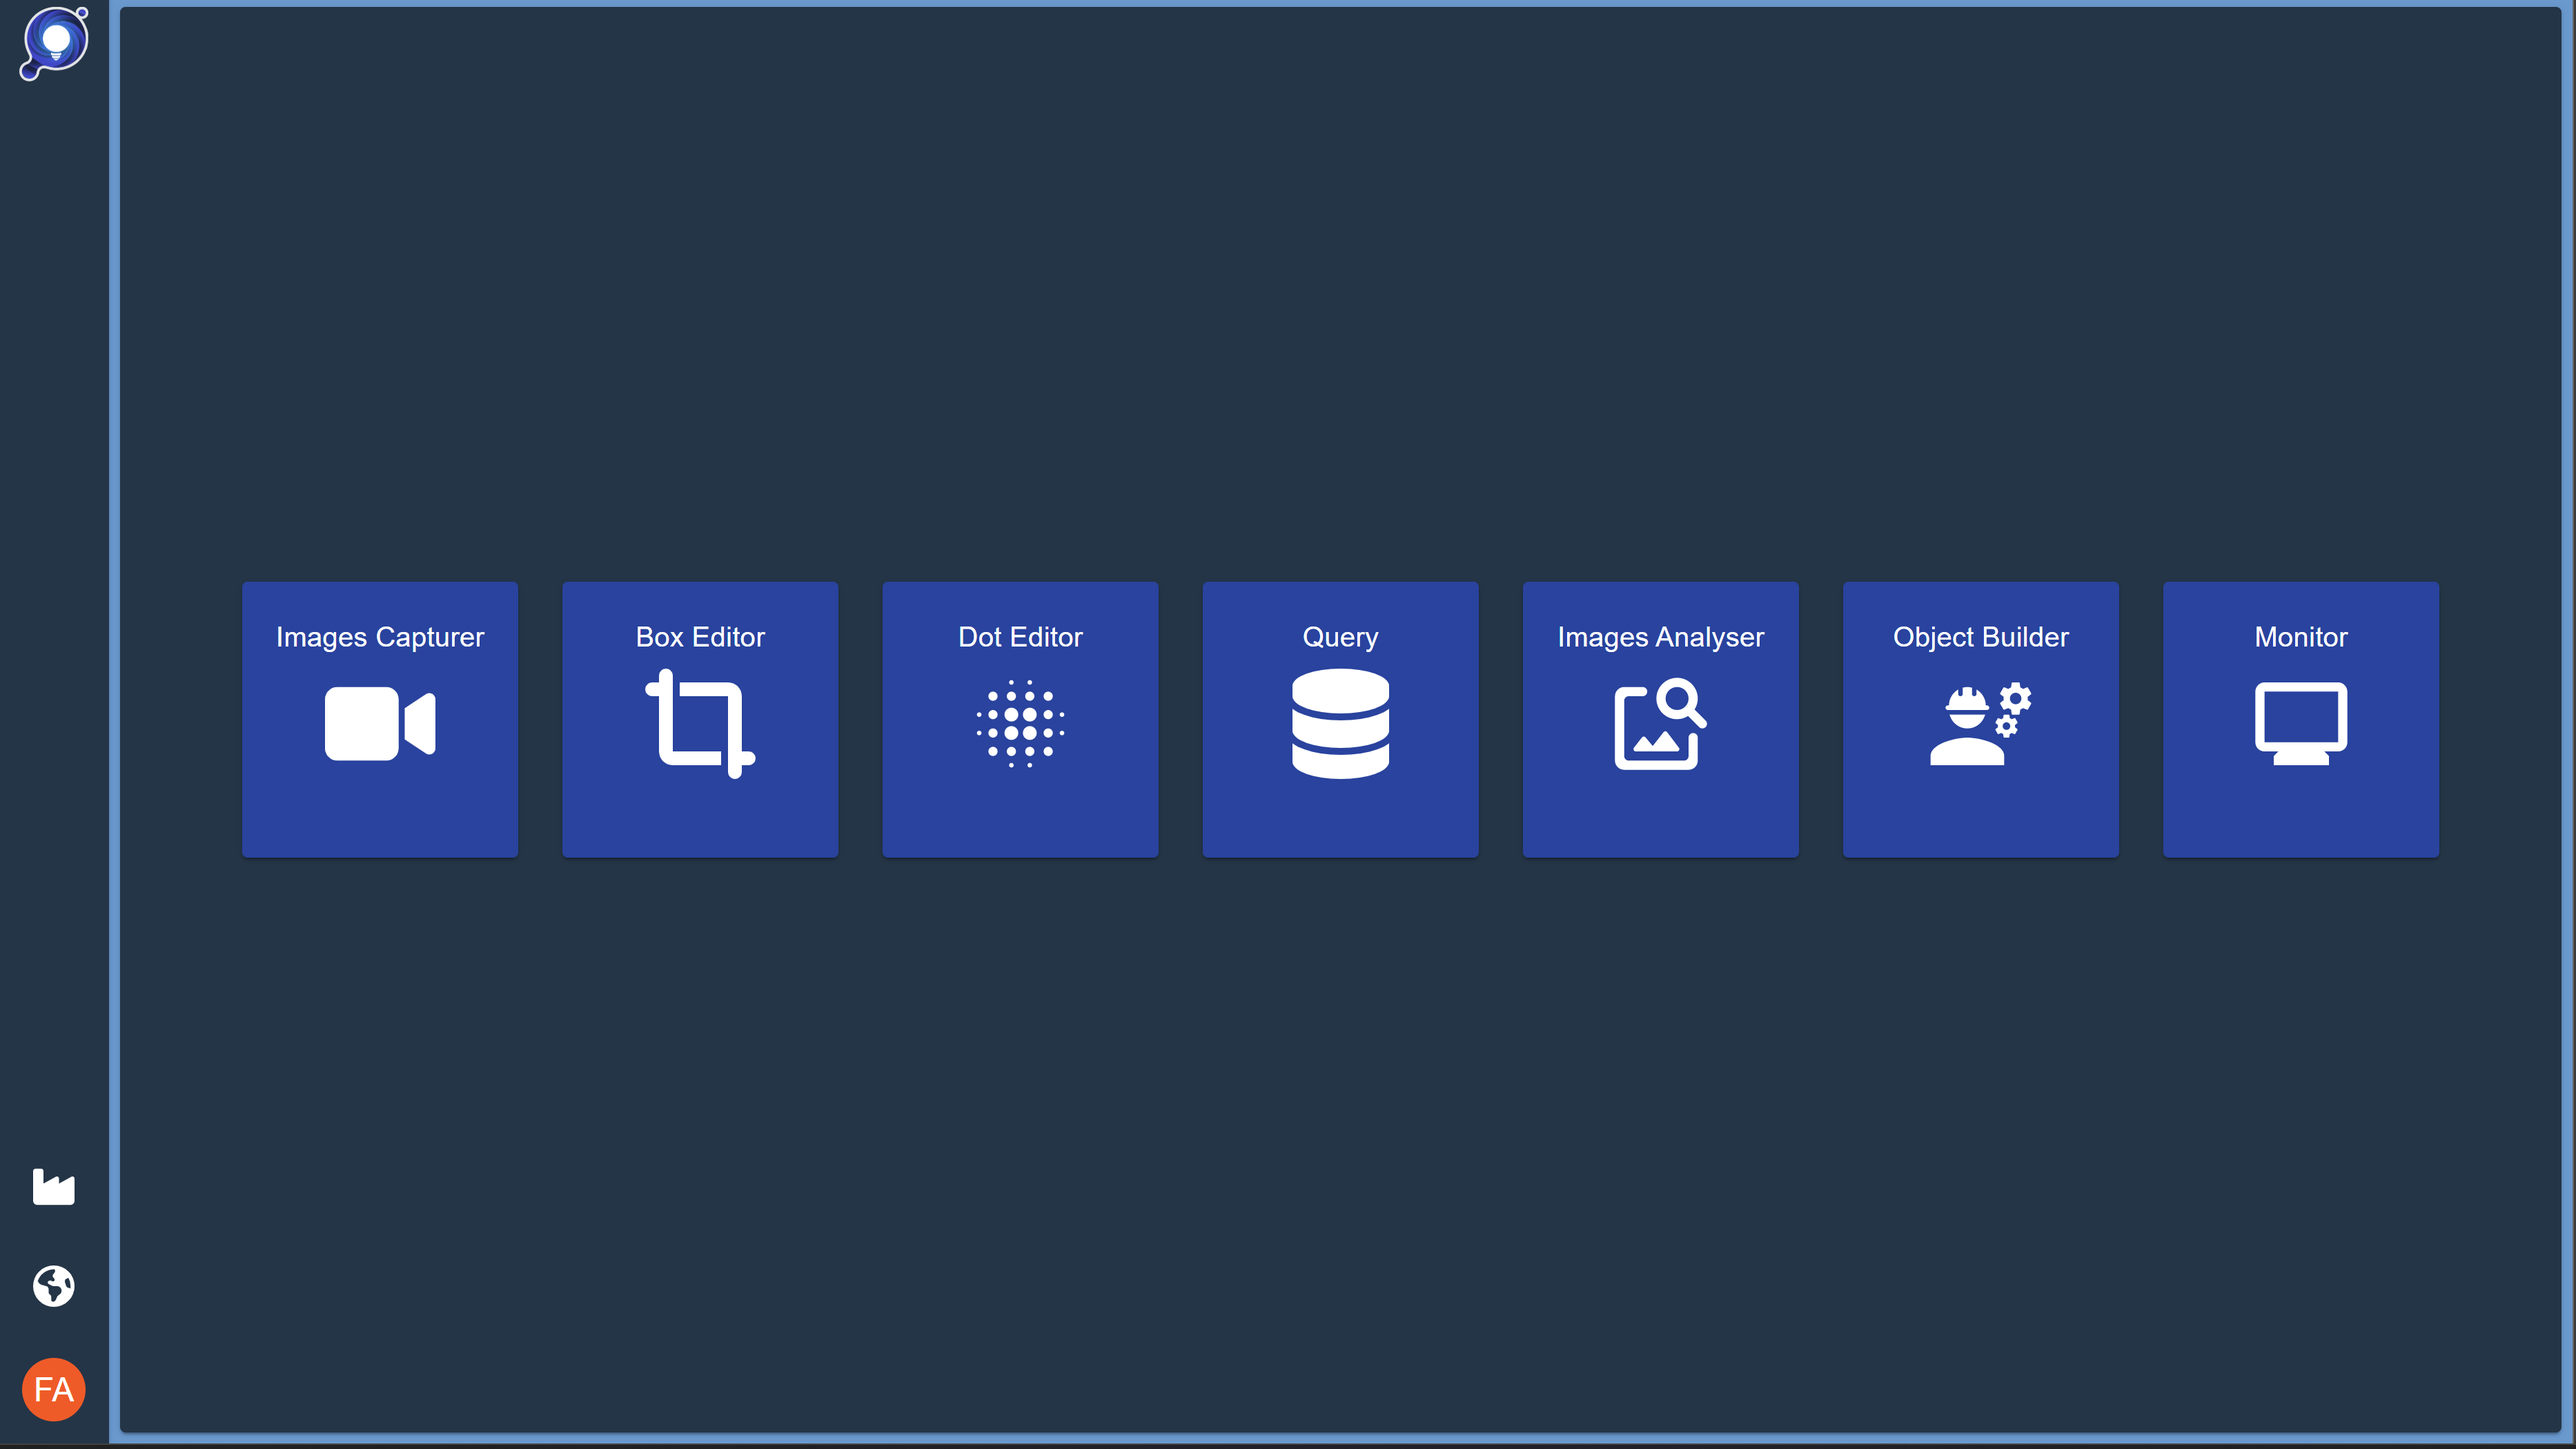
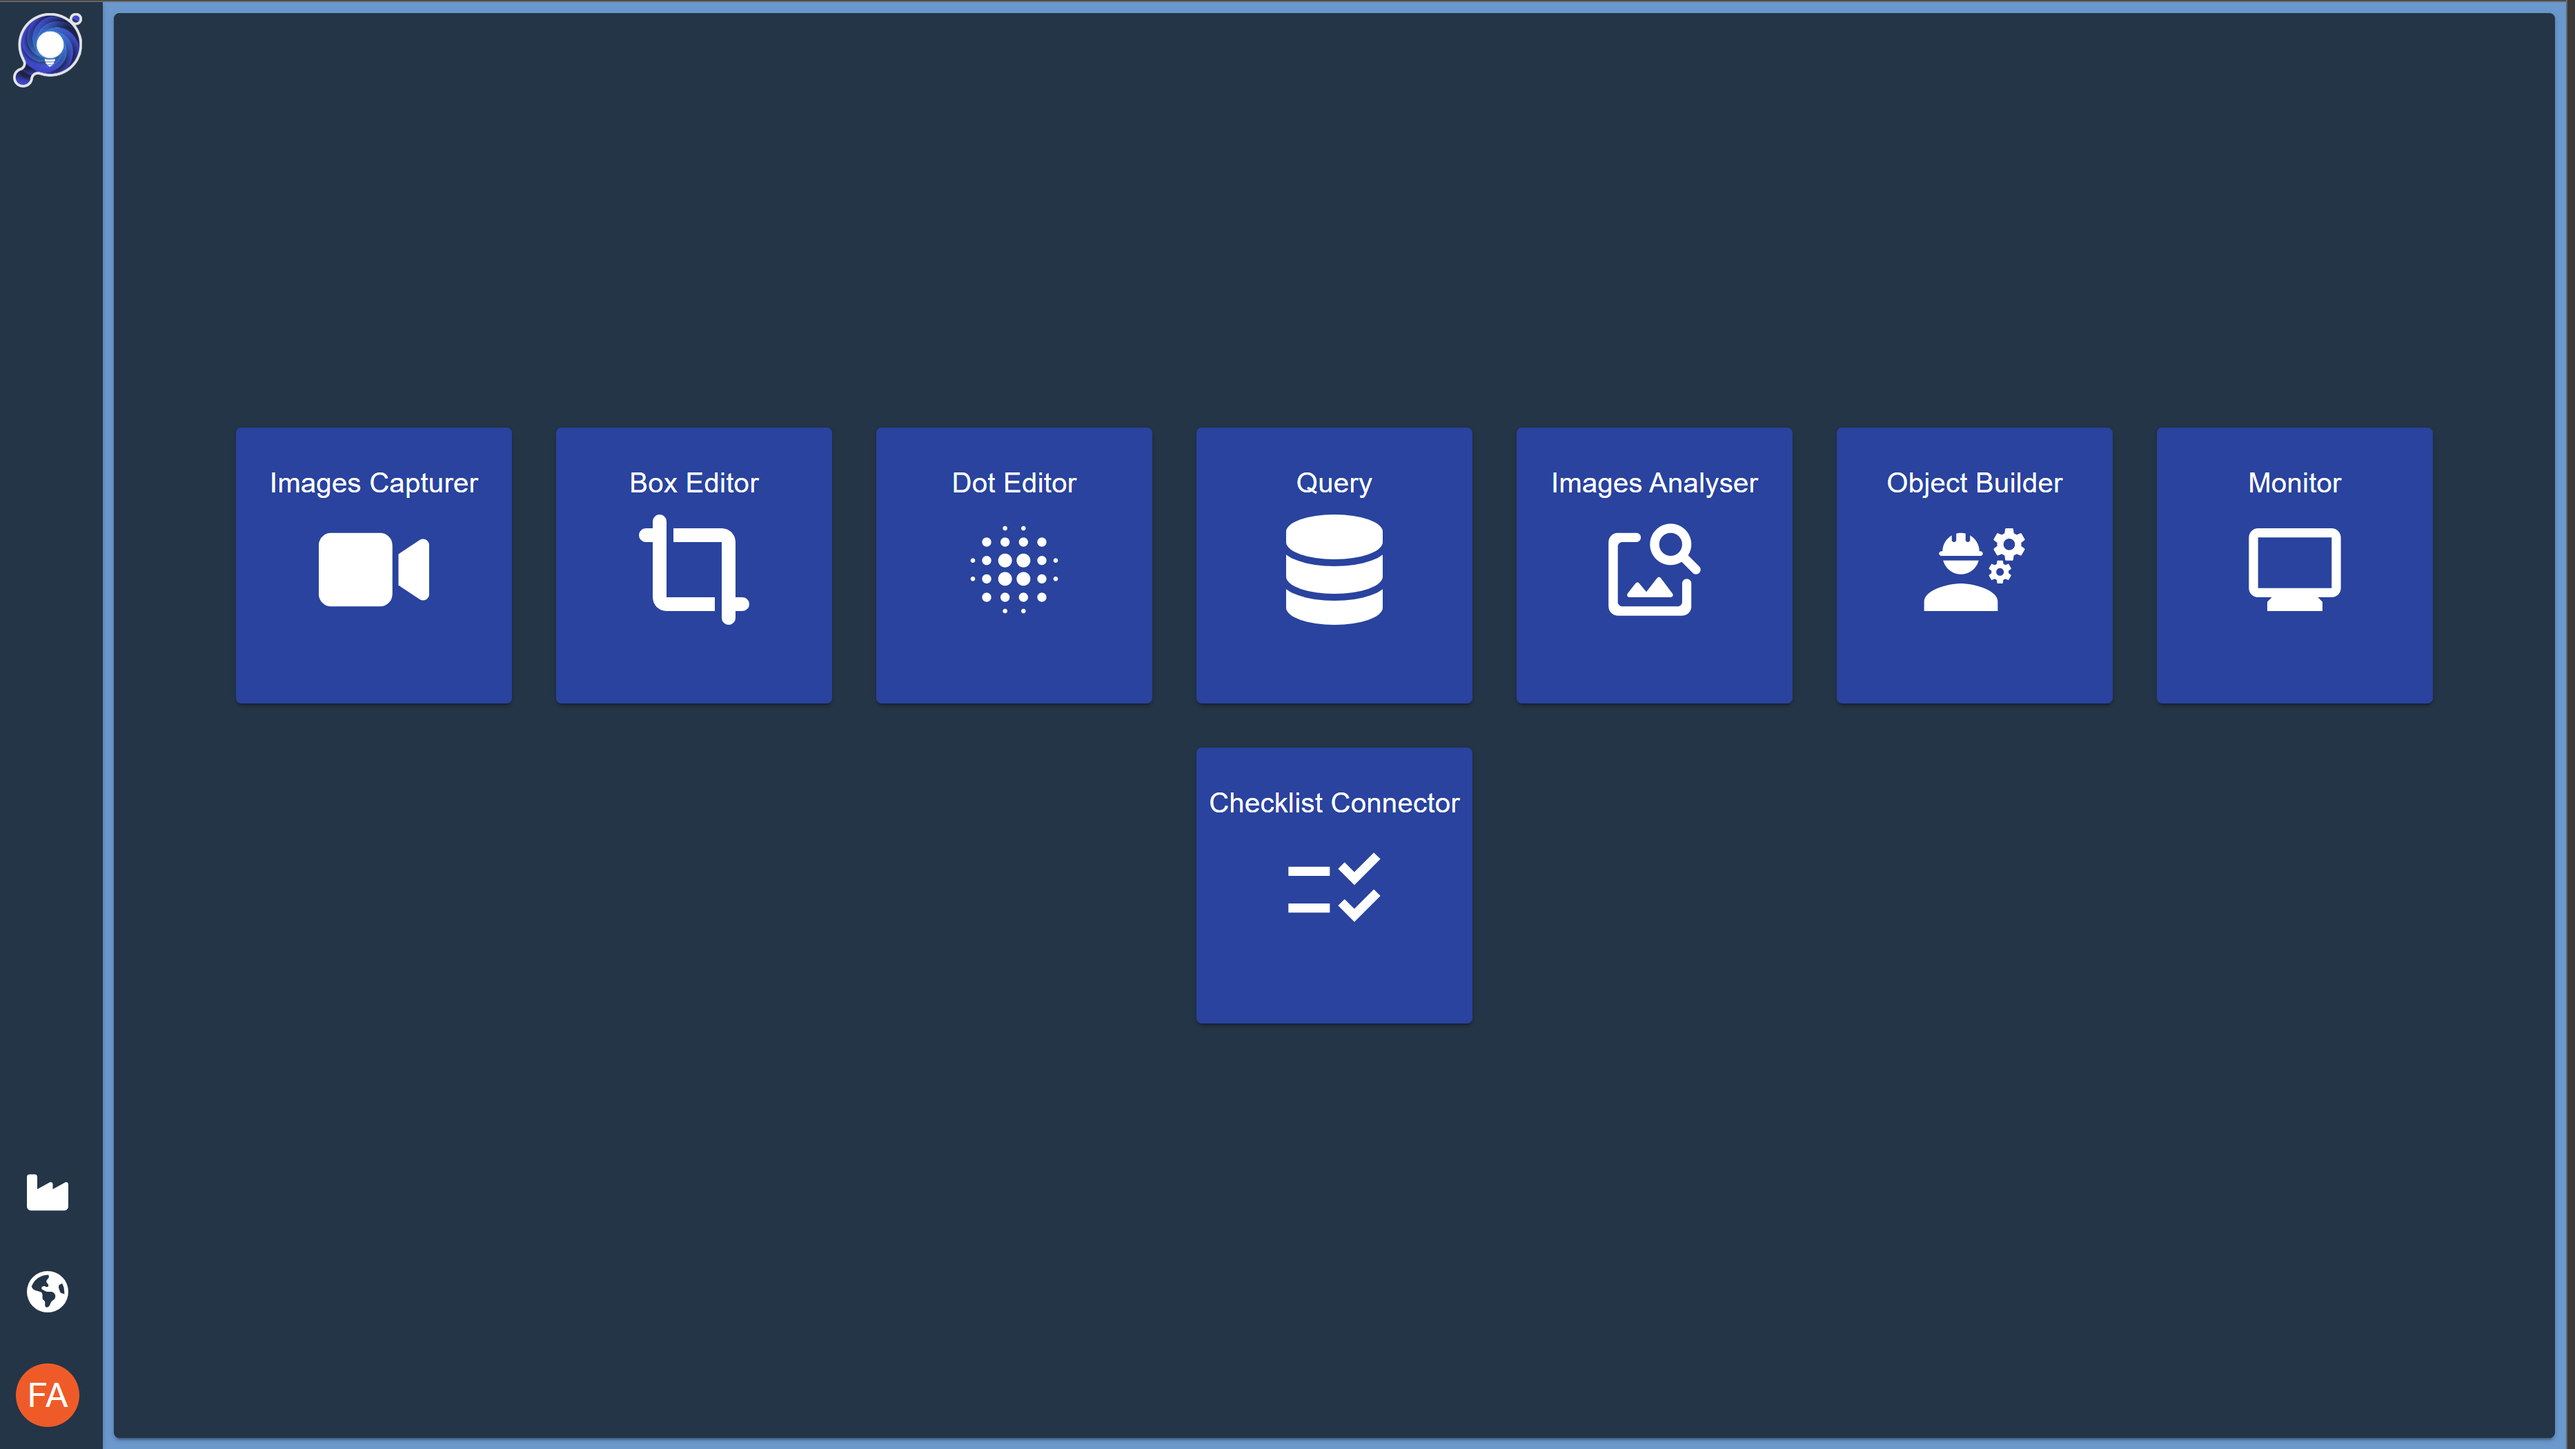
new tools

Changed region(s): [[0.0932, 0.2786, 0.9636, 0.7119], [0.0, 0.0, 1.0, 1.0]]

diff --git a/src/toolsPages/AppParameters/index.js b/src/toolsPages/AppParameters/index.js
@@ -1,0 +1,137 @@
+// React
+import React, { useEffect, useState } from 'react';
+
+// Design
+import { Box, List, Typography, ListItemButton } from '@mui/material';
+
+// Internal
+import PageWrapper from '../../components/PageWrapper';
+import API from '../../api';
+
+// Third-party
+import { useTranslation } from "react-i18next";
+
+
+const style = {
+  mainBox: Object.assign({}, window.app_config.style.box, {
+    bgcolor: 'background.paper',
+    // bgcolor: 'red',
+    display: 'flex',
+    flexGrow: 1,
+    justifyContent: 'center',
+    alignItems: 'center',
+  }),
+};
+
+
+
+export default function ChecklistConnector({ pageOptions }) {
+
+  const { t } = useTranslation();
+  const [parametersData, setParametersData] = useState([]);
+
+
+  const getData = () => {
+    API.get.appParameters()
+      .then(res => {
+        console.log({ res })
+        setParametersData(res?.documents ?? [])
+      })
+      .finally(() => {
+      });
+  };
+
+  useEffect(() => {
+    getData();
+  }, []);
+
+  return (
+    <PageWrapper>
+      {(width, height) =>
+        <Box
+          width={width}
+          height={height}
+          sx={style.mainBox}
+        >
+          <Box
+            sx={{
+              display: 'flex',
+              flexDirection: 'column',
+              width: '250px',
+              height: '100%',
+            }}
+          >
+            <Box
+              sx={{
+                display: 'flex',
+                flexDirection: 'row',
+                width: '100%',
+                height: '30px',
+                overflow: 'hidden',
+                justifyContent: 'center',
+                alignItems: 'center',
+              }}
+            >
+              <Typography textTransform={'uppercase'}>
+                {t('documents')}
+              </Typography>
+            </Box>
+            <Box
+              sx={{
+                display: 'flex',
+                flexDirection: 'row',
+                width: '100%',
+                height: 'calc(100% - 30px - 60px)',
+                overflowX: 'hidden',
+                overflowY: 'auto',
+              }}
+            >
+              {/* {JSON.stringify(Object.keys(queryData ?? {}))} */}
+              <List
+                sx={{
+                  width: '100%',
+                }}
+              >
+                {
+                  (parametersData ?? {}).map((parameter, index) => {
+                    return (
+                      <ListItemButton
+                        key={index}
+                      // onClick={() => setSelectedQuery(queryName)}
+                      // selected={selectedQuery === queryName}
+                      >
+                        {parameter.name}
+                      </ListItemButton>
+                    )
+                  })
+                }
+              </List>
+            </Box>
+          </Box>
+          <Box
+            sx={{
+              display: 'flex',
+              flexDirection: 'column',
+              flexGrow: 1,
+              height: '100%',
+              width: 'calc(50% - 250px)',
+            }}
+          >
+          </Box>
+          <Box
+            sx={{
+              display: 'flex',
+              flexDirection: 'column',
+              flexGrow: 1,
+              height: '100%',
+              width: 'calc(50% - 250px)',
+            }}
+          >
+          </Box>
+        </Box>
+      }
+    </PageWrapper>
+  )
+}
+
+

diff --git a/src/toolsPages/Query/index.js b/src/toolsPages/Query/index.js
@@ -31,8 +31,9 @@ import ExpectedFormatsDialog from './expectedFormatsDialog';
 import AddQueryDialog from './addQueryDialog';
 import { setNotificationBar } from '../../store/slices/app';
 
+
+
 // Third-party
-import ReactJSONViewer from 'react-json-viewer';
 import { useTranslation } from "react-i18next";
 import JSONInput from 'react-json-editor-ajrm';
 import locale from 'react-json-editor-ajrm/locale/en';
@@ -64,9 +65,7 @@ export default function Query({ pageOptions }) {
   const { t } = useTranslation();
   const dispatch = useDispatch();
 
-  const [view, setView] = useState('query_view');
   // eslint-disable-next-line no-unused-vars
-  const [resultView, setResultView] = useState('json');
   const [queryData, setQueryData] = useState(null);
   const [selectedQuery, setSelectedQuery] = useState('');
   const [searchMethod, setSearchMethod] = useState('');
@@ -223,39 +222,6 @@ export default function Query({ pageOptions }) {
               sx={{
                 display: 'flex',
                 flexDirection: 'row',
-                width: '95%',
-                height: '100px',
-                overflow: 'hidden',
-                justifyContent: 'center',
-                alignItems: 'center',
-                flexDirection: 'column',
-                gap: 1,
-                paddingLeft: 1,
-                paddingRight: 1,
-              }}
-            >
-              <Button
-                variant="contained"
-                fullWidth
-                onClick={() => setView('query_view')}
-                disabled={view === 'query_view'}
-              >
-                {t('query_view')}
-              </Button>
-              <Button
-                variant="contained"
-                fullWidth
-                onClick={() => setView('collection_view')}
-                // disabled={view === 'collection_view'}
-                disabled={true}
-              >
-                {t('collection_view')}
-              </Button>
-            </Box>
-            <Box
-              sx={{
-                display: 'flex',
-                flexDirection: 'row',
                 width: '100%',
                 height: '30px',
                 overflow: 'hidden',
@@ -368,16 +334,6 @@ export default function Query({ pageOptions }) {
                   }
                 </Select>
               </FormControl>
-              {/* chart:(
-              type
-              title
-              localeId
-              x_axis
-              y_axis
-              width
-              height
-              colors_result
-              ) */}
             </Box>
             <Box
               sx={{
@@ -488,23 +444,12 @@ export default function Query({ pageOptions }) {
                 overflow: 'auto',
               }}
             >
+              <JsonView
+                src={jsonData}
+                height={'100%'}
+                width={'100%'}
 
-              {
-                resultView === 'table' &&
-                <ReactJSONViewer
-                  json={jsonData.data}
-                />
-              }
-              {
-                resultView === 'json' &&
-                <JsonView
-                  src={jsonData}
-                  height={'100%'}
-                  width={'100%'}
-
-                />
-
-              }
+              />
             </Box>
           </Box>
 

diff --git a/src/toolsPages/ChecklistConnector/index.js b/src/toolsPages/ChecklistConnector/index.js
@@ -1,0 +1,67 @@
+// React
+import React, { useEffect, useState } from 'react';
+
+// Design
+import { Box, Grid, Typography, Card, CardMedia } from '@mui/material';
+
+// Internal
+import PageWrapper from '../../components/PageWrapper';
+import ImageDialog from '../../components/ImageDialog';
+import GetImagesList from '../utils/Hooks/GetImagesList';
+
+// Third-party
+
+const style = {
+  mainBox: Object.assign({}, window.app_config.style.box, {
+    bgcolor: 'background.paper',
+    // bgcolor: 'red',
+    display: 'flex',
+    flexGrow: 1,
+    justifyContent: 'center',
+    alignItems: 'center',
+  }),
+};
+
+
+
+export default function ChecklistConnector({ pageOptions }) {
+
+
+
+  const [openDialog, setOpenDialog] = useState(false);
+  const [dialogTitle, setDialogTitle] = useState('');
+  const [infoURL, setInfoURL] = useState('');
+  const [imageURL, setImageURL] = useState('');
+  const [imagePath, setImagePath] = useState('');
+  const { imagesList } = GetImagesList({ url: infoURL, sleepTime: pageOptions?.options?.sleepTime });
+
+  useEffect(() => {
+    if (!openDialog) {
+      setDialogTitle('');
+      setImagePath('');
+    }
+  }, [openDialog]);
+
+  useEffect(() => {
+    if (pageOptions?.options?.infoURL) {
+      setInfoURL(pageOptions?.options?.infoURL);
+      setImageURL(pageOptions?.options?.imageURL);
+    }
+  }, [pageOptions]);
+
+  return (
+    <PageWrapper>
+      {(width, height) =>
+        <Box
+          width={width}
+          height={height}
+          sx={style.mainBox}
+        >
+          ChecklistConnector
+        </Box>
+      }
+    </PageWrapper>
+  )
+}
+
+

diff --git a/src/GetRoutes.js b/src/GetRoutes.js
@@ -16,6 +16,8 @@ const homeURL = "/app/:stationSlugLabel/home";
 
 const Query = lazy(() => import("./toolsPages/Query"));
 const Monitor = lazy(() => import("./toolsPages/Monitor"));
+const ChecklistConnector = lazy(() => import("./toolsPages/ChecklistConnector"));
+const AppParameters = lazy(() => import("./toolsPages/AppParameters"));
 
 function NotFound() {
   return (
@@ -35,6 +37,8 @@ const components = {
 
   Query: (pageOptions) => <Query pageOptions={pageOptions} />,
   Monitor: (pageOptions) => <Monitor pageOptions={pageOptions} />,
+  ChecklistConnector: (pageOptions) => <ChecklistConnector pageOptions={pageOptions} />,
+  AppParameters: (pageOptions) => <AppParameters pageOptions={pageOptions} />
 };
 
 

diff --git a/src/api/index.js b/src/api/index.js
@@ -93,6 +93,8 @@ const API = {
     accessControlData: (setLoading) => request(instance.get(`auth/access-control-data`), setLoading),
     userList: (setLoading) => request(instance.get(`auth/users-list`), setLoading),
     alert: ({ stationId }, setLoading) => request(instance.get(`alerts/${stationId}`), setLoading),
+
+    appParameters: (setLoading) => request(instance.get(`app/parameters`), setLoading),
   },
   put: {
     batchPause: ({ stationId, batchId }, setLoading) => request(instance.put(`batch/${stationId}/${batchId}/pause`), setLoading),

diff --git a/README.md b/README.md
@@ -55,3 +55,5 @@
 | Images Analyser  | ![tools images analyser](imagesDocumentation/tools_imagesAnalyser.png "tools images analyser")  |  
 | Monitor  | ![tools monitor](imagesDocumentation/tools_monitor.png "tools monitor")  |  
 | Object Builder  | ![tools object builder](imagesDocumentation/tools_objectBuilder.png "tools object builder")  |  
+| CheckList Connector  | ![tools checklist connector](imagesDocumentation/tools_checklistConnector.png "tools checklist connector")  |  
+| App Parameters  | ![tools app parameters](imagesDocumentation/tools_appParameters.png "tools app parameters")  |  
